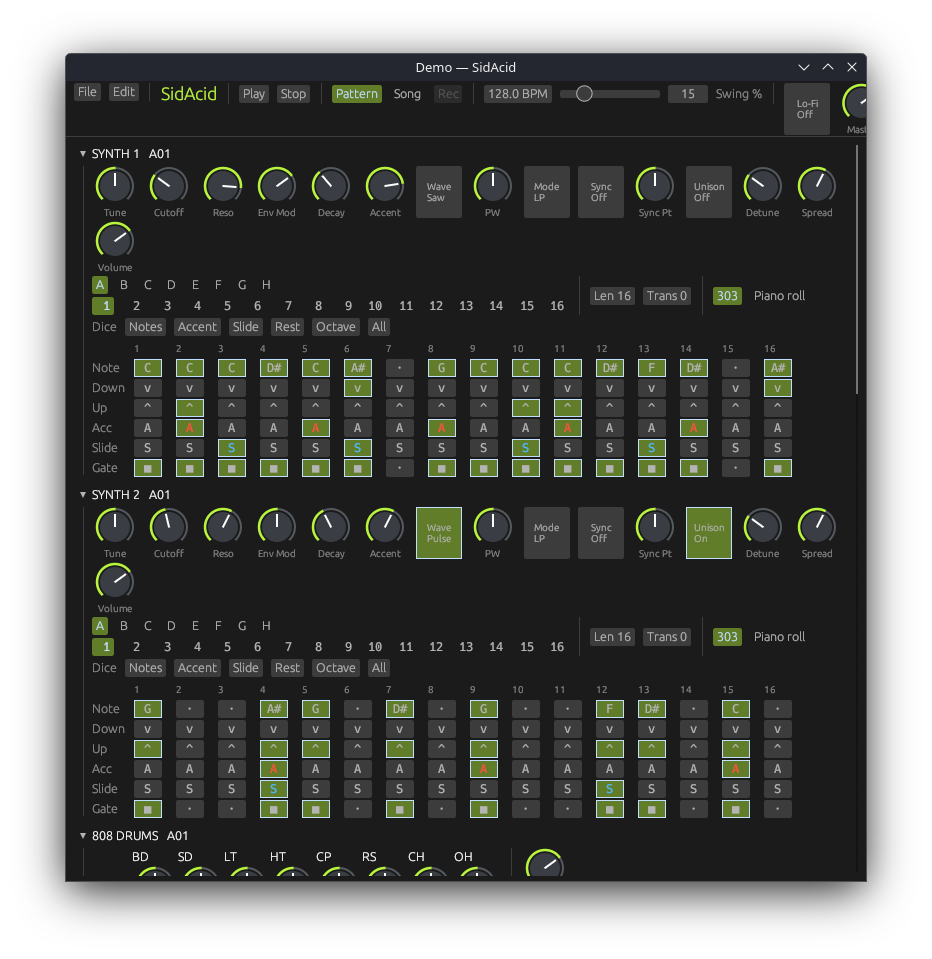
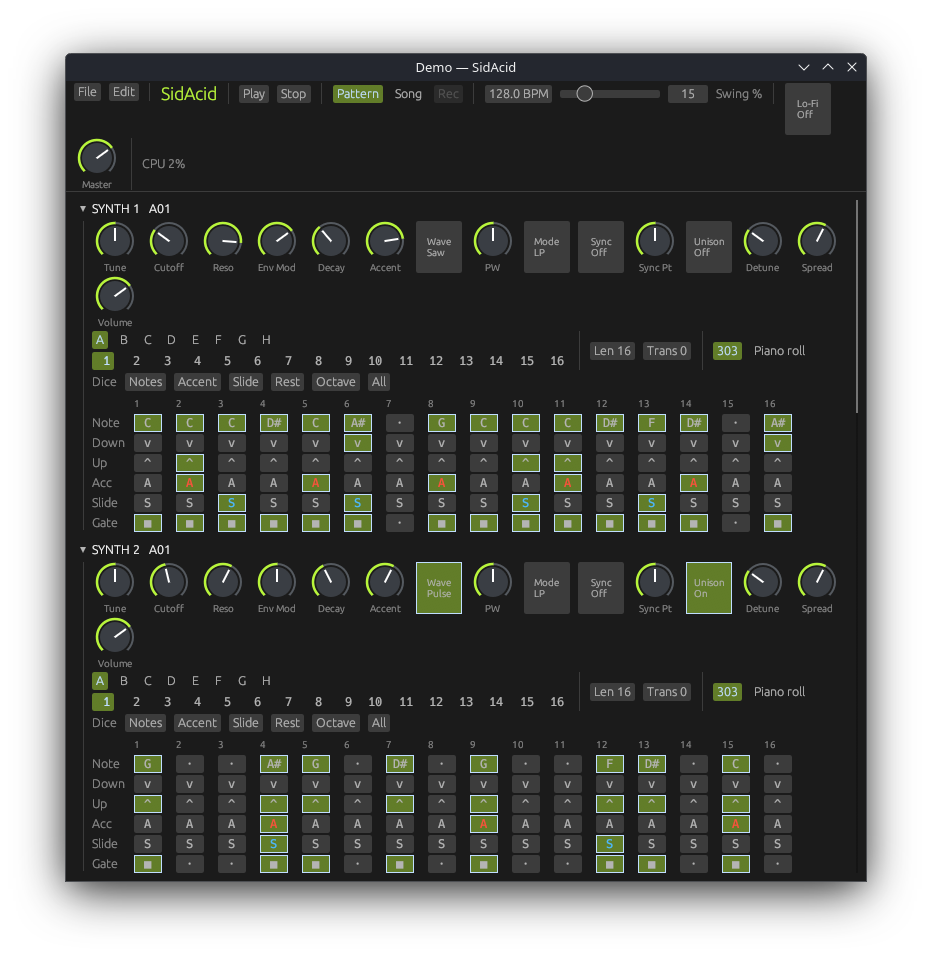
fix(app): transport bar wraps instead of clipping in narrow windows

diff --git a/crates/app/src/ui/transport.rs b/crates/app/src/ui/transport.rs
@@ -8,7 +8,8 @@ use eframe::egui;
 
 impl SidAcidApp {
     pub(crate) fn transport(&mut self, ui: &mut egui::Ui) {
-        ui.horizontal(|ui| {
+        // Wraps onto a second row instead of clipping in narrow windows.
+        ui.horizontal_wrapped(|ui| {
             self.file_menu(ui);
             ui.separator();
             ui.heading(egui::RichText::new("SidAcid").color(theme::ACID).strong());
@@ -102,9 +103,8 @@ impl SidAcidApp {
                 cpu_label.on_hover_text(audio.device_name.as_str());
             }
             if let Some(line) = &self.view.status_line {
-                ui.with_layout(egui::Layout::right_to_left(egui::Align::Center), |ui| {
-                    ui.label(egui::RichText::new(line).small());
-                });
+                ui.separator();
+                ui.label(egui::RichText::new(line).small());
             }
         });
     }
